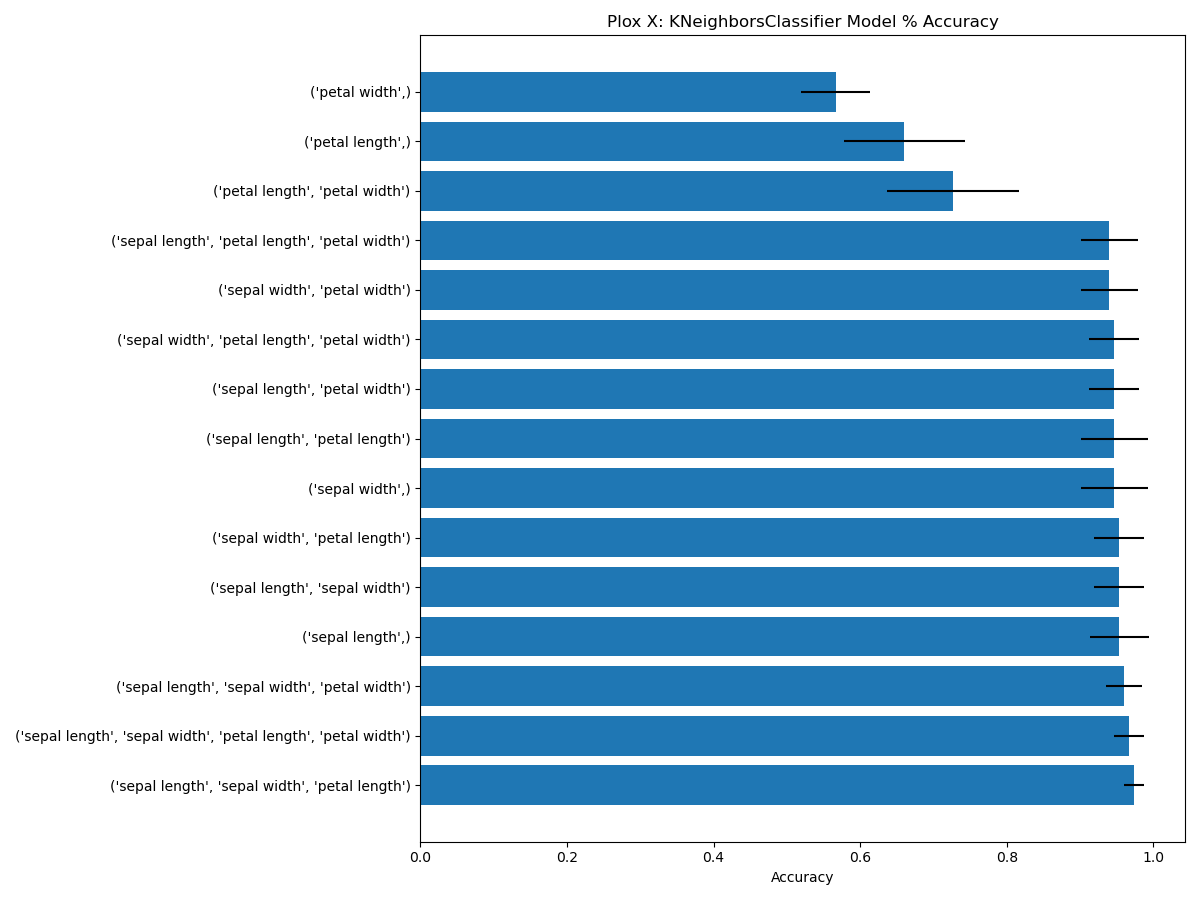
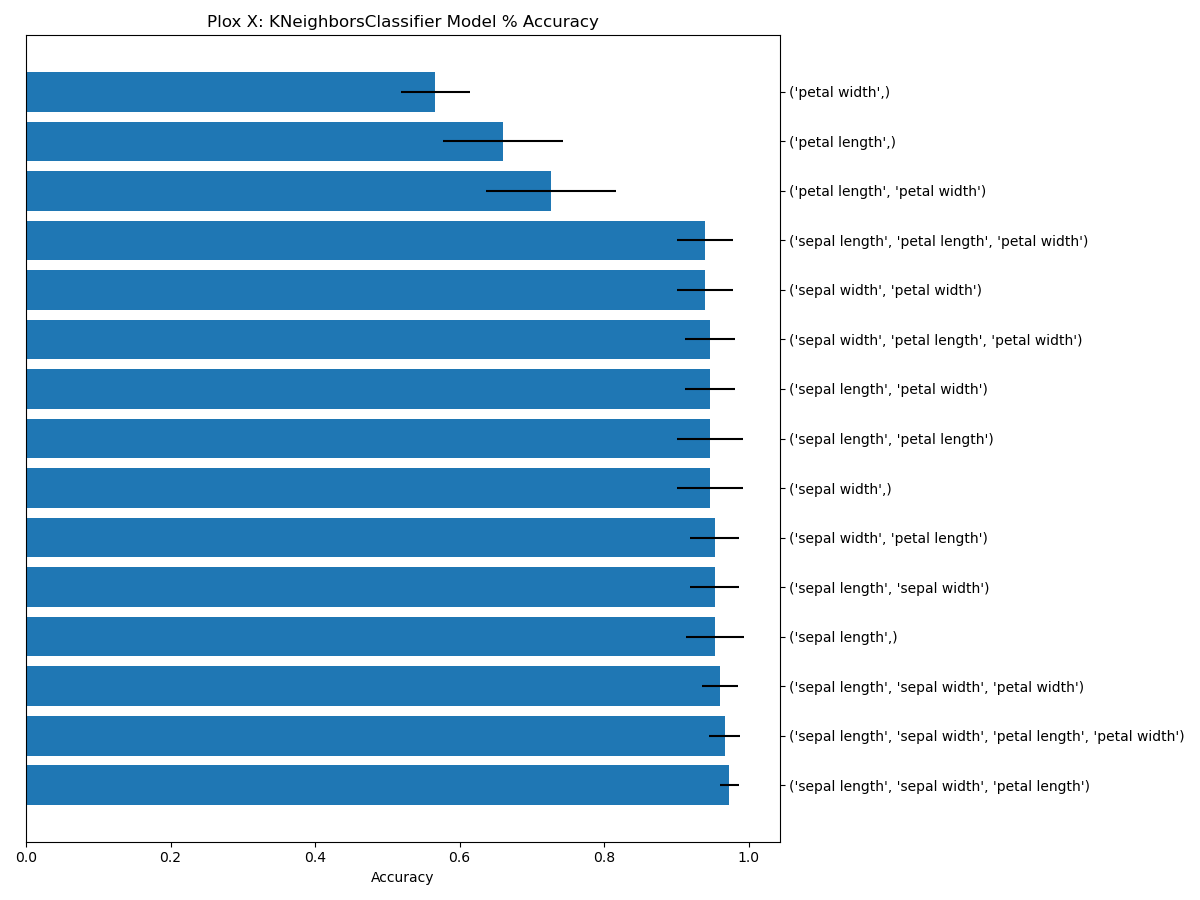
test

diff --git a/Project/machine_learning.py b/Project/machine_learning.py
@@ -44,6 +44,7 @@ def knearest_neighbour(cross_validation):
     df = pd.DataFrame.from_dict(efs1.get_metric_dict()).T                                 # uses get_metric_dict method on efs1 variable, efs1 is then converted from dict to dataframe
     df.sort_values('avg_score', inplace=True, ascending=False)                            # sort column in ascending order, inplace True means no copy is made
   
+  
     # Create bar chart on mean performance of each subset of features
     fig, ax = plt.subplots(figsize=(12,9))                                                # create figure & axes
     y_pos = np.arange(len(df))                                                            # stores evenly spaced values that total the length of the df 
@@ -51,6 +52,8 @@ def knearest_neighbour(cross_validation):
     ax.barh(y_pos, df['avg_score'], xerr=df['std_dev'])                                   # sets chart parameters
     ax.set_yticks(y_pos)                                                                  # sets y positions 
     ax.set_yticklabels(df['feature_names'])                                               # sets y labels
+    ax.yaxis.tick_right()                                                                 # y axis ticks right
+    ax.yaxis.set_label_position("right")                                                  # y axis labels right 
     ax.set_xlabel('Accuracy')                                                             # sets x axis labels
 
     plt.title('Plox X: KNeighborsClassifier Model % Accuracy')                            # add title

diff --git a/Project/README.md b/Project/README.md
@@ -319,9 +319,7 @@ In an attempt to better understand how feature selection can impact a models per
 
 
 
-| <img src="Images/knn_average_score.png"  width="1000"/>|
-|----------|
-| Fig X.|
+ <img src="Images/knn_average_score.png"  width="1000"/>|
 
 
 <br/>
